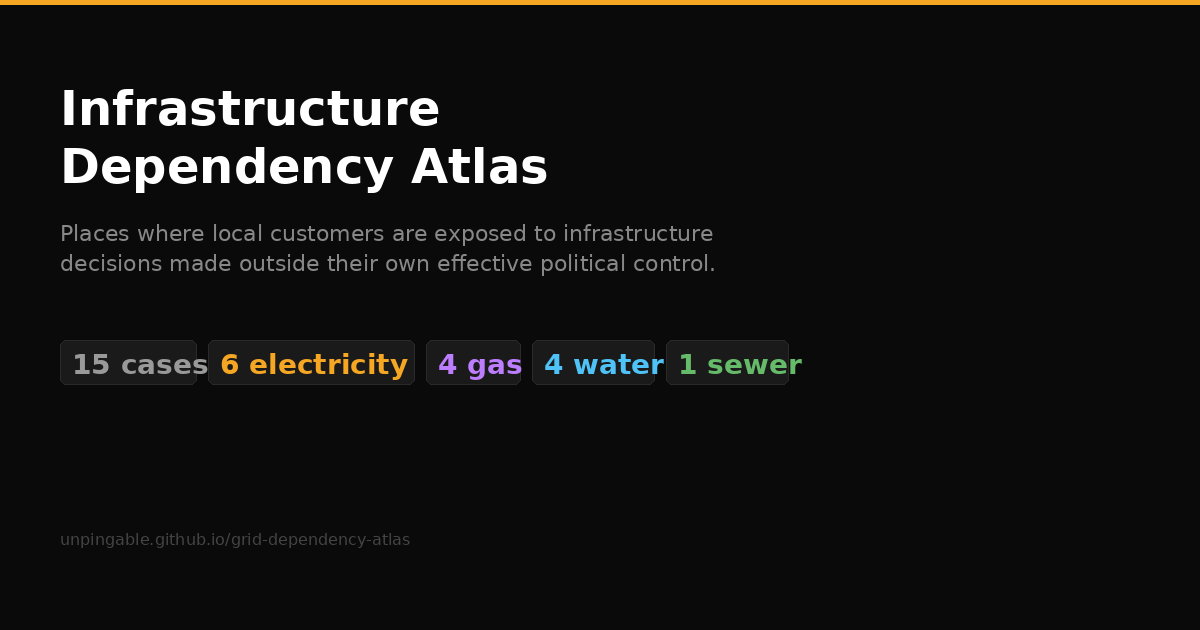
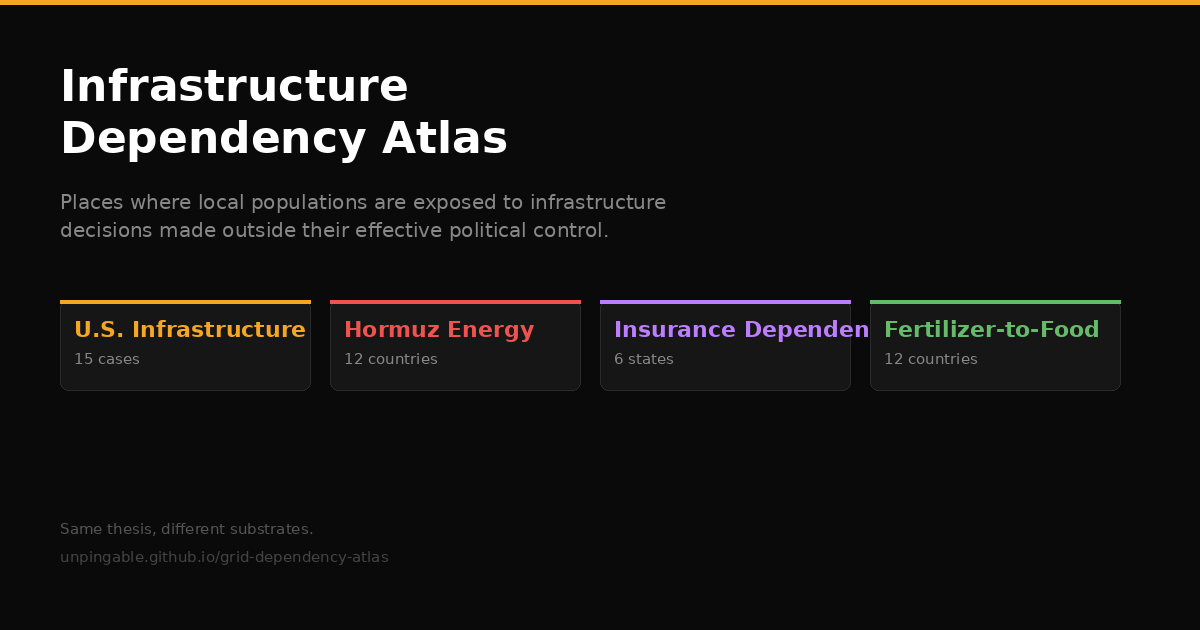
Update social preview for four-atlas project
Regenerated OG image with four atlas cards (US Infrastructure,
Hormuz Energy, Insurance Dependency, Fertilizer-to-Food) replacing
the original single-atlas preview. Updated meta description.

Changed region(s): [[0.0308, 0.0905, 0.925, 0.4825], [0.0617, 0.5127, 0.925, 0.6032], [0.0617, 0.8143, 0.3392, 0.9048]]

diff --git a/docs/index.html b/docs/index.html
@@ -4,7 +4,7 @@
   <meta charset="UTF-8">
   <meta name="viewport" content="width=device-width, initial-scale=1.0">
   <title>Infrastructure Dependency Atlas</title>
-  <meta name="description" content="Places where local populations are exposed to infrastructure decisions made outside their effective political control. U.S. infrastructure dependencies and Hormuz energy chokepoint stress.">
+  <meta name="description" content="Places where local populations are exposed to infrastructure decisions made outside their effective political control. Four atlases: U.S. infrastructure, Hormuz energy chokepoint, insurance dependency, and fertilizer-to-food stress.">
 
   <!-- Open Graph -->
   <meta property="og:type" content="website">
